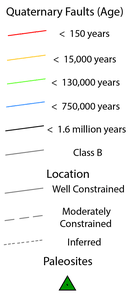
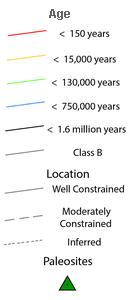
Updated legend.

Changed region(s): [[0.0303, 0.0, 0.9394, 0.09]]

diff --git a/src/htdocs/js/FaultApp.js b/src/htdocs/js/FaultApp.js
@@ -86,7 +86,7 @@ var FaultApp = function (options) {
           maxZoom: 10
         }
       },
-      title: 'Quaternary Faults (Age)'
+      title: 'Quaternary Faults'
     });
     _layersControl.addBaseLayer(_qFault, _qFault.getTitle());
 

diff --git a/src/htdocs/js/layer/QFaultLayer.js b/src/htdocs/js/layer/QFaultLayer.js
@@ -22,7 +22,7 @@ _DEFAULTS = {
     '/argis/rest/services/paleo': {},
   },
 
-  title: 'Quaternary Faults (Age)',
+  title: 'Quaternary Faults',
 };
 
 _UNSPECIFIED = '<span class="unknown">unspecified</span>';
